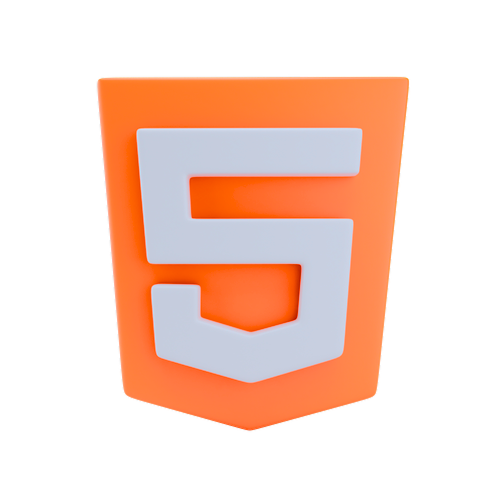
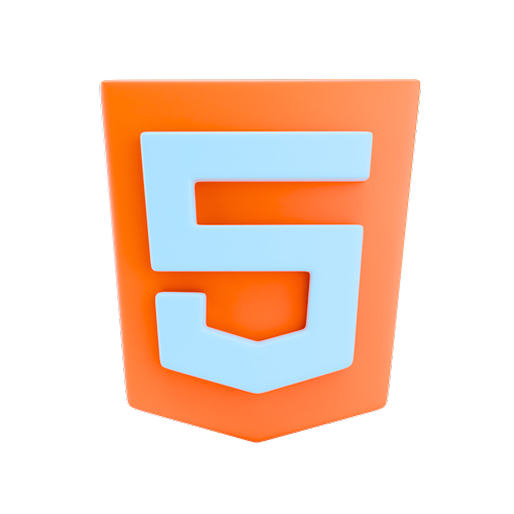
style: :art: ajuste na estilização de cores, ícone e responsividade
- Estilização de cores geral
- Alterado ícone de imagem no HTML (assets)
- Ajustada responsividade em vários pontos
- Modificados components: Background, Header, Emphasis
- Adicionado CSS específico ao component Emphasis

Changed region(s): [[0.18, 0.15, 0.84, 0.78], [0.75, 0.51, 0.78, 0.78], [0.45, 0.84, 0.54, 0.87]]

diff --git a/new-portfolio/src/app/components/Background/Scene3D.tsx b/new-portfolio/src/app/components/Background/Scene3D.tsx
@@ -35,54 +35,42 @@ export default function OrbitLogos() {
 
   return (
     <>
-        <div ref={containerRef} style={{
-            display: 'flex',
-            alignItems: 'flex-start',
-            justifyContent: 'center',
-            position: 'relative',
-            width: 1000,
-            height: 500,
-            margin: '0 auto',
+        <div className={Scene3D.areaContainer} ref={containerRef}>
+
+            <div className={Scene3D.areaRedesocial}>
+                <RedeSocial/>
+            </div>
+            
+
+        {/* Foto central */}
+        <motion.div
+            style={{
+            overflow: 'hidden',
+            position: 'absolute',
+            top: '33%',
+            left: '45%',
+            width: 'auto',
             backgroundColor: 'transparent',
-            perspective: 650,
-            transformStyle: 'preserve-3d',
-            overflow: 'visible',
-        }}>
-
-        <div className={Scene3D.areaRedesocial}>
-            <RedeSocial/>
-        </div>
-        
-
-      {/* Foto central */}
-      <motion.div
-        style={{
-          overflow: 'hidden',
-          position: 'absolute',
-          top: '33%',
-          left: '45%',
-          width: 'auto',
-          backgroundColor: 'transparent',
-          transform: 'translate(-50%, -50%)',
-          zIndex: 10,
-          boxShadow: '0 0 15px rgba(0, 0, 0, 0)',
-          filter: `
-          drop-shadow(0 0 4px rgba(47, 46, 46, 0.6)) 
-          drop-shadow(0 0 8px rgba(97, 97, 97, 0.5)) 
-          drop-shadow(0 0 12px rgba(43, 43, 43, 0.4))
-        `,
-        }}
-        animate={{
-            rotate: [0, 5, -5, 0], // leve balanço
-            y: [0, 5, 0],
-            x : [ 0, 9, 0 ]         // leve flutuação
-          }}
-          transition={{
-            duration: 5,
-            repeat: Infinity,
-            ease: 'easeInOut',
-        }}
-      >
+            transform: 'translate(-50%, -50%)',
+            zIndex: 10,
+            boxShadow: '0 0 15px rgba(0, 0, 0, 0)',
+            filter: `
+            drop-shadow(0 0 4px rgba(47, 46, 46, 0.6)) 
+            drop-shadow(0 0 8px rgba(97, 97, 97, 0.5)) 
+            drop-shadow(0 0 12px rgba(43, 43, 43, 0.4))
+            `,
+            }}
+            animate={{
+                rotate: [0, 5, -5, 0], // leve balanço
+                y: [0, 5, 0],
+                x : [ 0, 9, 0 ]         // leve flutuação
+            }}
+            transition={{
+                duration: 5,
+                repeat: Infinity,
+                ease: 'easeInOut',
+            }}
+        >
         <Image src={profile} className={Scene3D.profile} alt="Minha foto"  />
       </motion.div>
 

diff --git a/new-portfolio/src/app/components/Home/Emphasis/Emphasis.tsx b/new-portfolio/src/app/components/Home/Emphasis/Emphasis.tsx
@@ -1,6 +1,7 @@
 'use client';
 import { Typography, Button } from '@mui/material';
 import { motion } from 'framer-motion';
+import Scene3D from './Emphasis.module.css';
 export default function Home() {
   return (
 
@@ -11,16 +12,16 @@ export default function Home() {
     >
     
       <Typography variant="h2" gutterBottom>
-        Eai, Eu sou Lucas
+        <span className={Scene3D.titleDetail}>Eai</span>, Eu sou Lucas
       </Typography>
       <Typography variant="h4" gutterBottom>
-        Desenvolvedor Frontend
+        Desenvolvedor <span className={Scene3D.titleDetail}>Frontend</span>
       </Typography>
  
       <Typography variant="body1" maxWidth={550} textAlign={'justify'}>
         Sou um desenvolvedor Frontend apaixonado por criar experiências digitais incríveis. Com uma sólida formação em design e desenvolvimento web, estou sempre em busca de novos desafios e oportunidades para aprimorar minhas habilidades.
       </Typography>
-      <Button variant="contained" sx={{ backgroundColor: '#749f21', marginTop: '1rem' }}>
+      <Button variant="contained" sx={{ backgroundColor: '#749f21', marginTop: '1rem', color: '#406661' }}>
 
         <a href="https://wa.link/i3xug3" target="_blank" className="button button-flex" aria-label="Contate-me">
           contate-me <i className="uil uil-message button-icone"></i>

diff --git a/new-portfolio/src/app/components/Home/Emphasis/RedeSocial/RedeSocial.tsx b/new-portfolio/src/app/components/Home/Emphasis/RedeSocial/RedeSocial.tsx
@@ -1,7 +1,7 @@
 //@ components/HomeSocial.js
 'use client';
 import Styles from './RedeSocial.module.css';
-import { SlSocialLinkedin} from 'react-icons/sl';
+import { FaLinkedinIn} from 'react-icons/fa';
 import { FiGithub } from 'react-icons/fi';
 import { RxDiscordLogo } from "react-icons/rx";
 
@@ -10,15 +10,15 @@ const HomeSocial = () => {
     <>
     <div  className={Styles.contentIcon} role="navigation" aria-label="Redes sociais">
         <a href="https://www.linkedin.com/in/lucas-garcia-l/" target="_blank" aria-label="Perfil no LinkedIn">
-          <SlSocialLinkedin size={30} color="#fff00" />
+          <FaLinkedinIn size={30}  color="#388E3C" />
         </a>
 
         <a href="https://lucasgarcia0589"aria-label="Perfil no Discord">
-          <RxDiscordLogo size={30} color="#7289da" />
+          <RxDiscordLogo size={30} color="#8BC34A" />
         </a>
 
         <a href="https://github.com/Lucasgarcc" target="_blank" aria-label="Perfil no GitHub">
-          <FiGithub size={30} color="#fff00" />
+          <FiGithub size={30} color="#388E3C" />
         </a>
       </div>
       </>

diff --git a/new-portfolio/src/app/globals.css b/new-portfolio/src/app/globals.css
@@ -1,7 +1,7 @@
 @import "tailwindcss";
 
 :root {
-  --background: #ffffff;
+  --background: #424242;
   --foreground: #171717;
 }
 
@@ -14,8 +14,8 @@
 
 @media (prefers-color-scheme: dark) {
   :root {
-    --background: #f3f3f3;
-    --foreground: #000000;
+    --background: #fffffd;
+    --foreground: #181818;
   }
 }
 
@@ -31,6 +31,19 @@ main {
   justify-content: center;
   align-items: center;
   gap: 1rem;
+}
+
+@media screen and (max-width: 1568px) {
+  main {
+    justify-content: center;
+    align-items: center;
+    flex-direction: column;
+    gap: 10rem;
+  }
+  .area-content-scene3D {
+    width: 100%;
+    height: auto;
+  }
 }
 
 .area-content-emphasis {

diff --git a/new-portfolio/src/app/components/Background/Scene3D.module.css b/new-portfolio/src/app/components/Background/Scene3D.module.css
@@ -12,3 +12,34 @@
   left: -12rem;
   right: 0;
 }
+
+.areaContainer {
+    display: flex;
+    align-items: flex-start;
+    justify-content: center;
+    position: relative;
+    width: 832px;
+    height: 500px;
+    margin: 0px auto;
+    background-color: transparent;
+    perspective: 650px;
+    transform-style: preserve-3d;
+    overflow: visible;
+}
+
+@media screen and (max-width:1568px) {
+
+  .areaContainer {
+    position: relative;  
+    inset: 0 0 0 -9rem;
+    width: 900px;
+  }
+}
+@media screen and (max-width:1000px) {
+  .areaContainer {
+    position: relative;  
+    inset: 0 0 0 -9rem;
+    width: 600px;
+	height: 20vh;
+  }
+}

diff --git a/new-portfolio/src/app/components/Home/Header/Header.jsx b/new-portfolio/src/app/components/Home/Header/Header.jsx
@@ -4,7 +4,7 @@ import { AppBar, Toolbar, Typography } from '@mui/material';
 const Header = () => {
 
   return (
-    <AppBar sx={{ backgroundColor: '#749f21' }} position="static">
+    <AppBar sx={{ backgroundColor: '#7CBD1E', color: '#406661' }} position="static">
       <Toolbar >
         <Typography variant="h6" component="div" sx={{ flexGrow: 1 }}>
           Garcia Dev

diff --git a/new-portfolio/src/app/layout.tsx b/new-portfolio/src/app/layout.tsx
@@ -37,7 +37,7 @@ export default function RootLayout({ children }: RootLayoutProps) {
         <Header />
         <main>{children}
 
-          <div>
+          <div className='area-content-scene3D' >
             <Scene3D />
           </div>	
           <div className='area-content-emphasis'  >

diff --git a/new-portfolio/src/app/components/Home/Emphasis/Emphasis.module.css b/new-portfolio/src/app/components/Home/Emphasis/Emphasis.module.css
@@ -1,0 +1,3 @@
+.titleDetail {
+  color: #7ba93e;
+}
